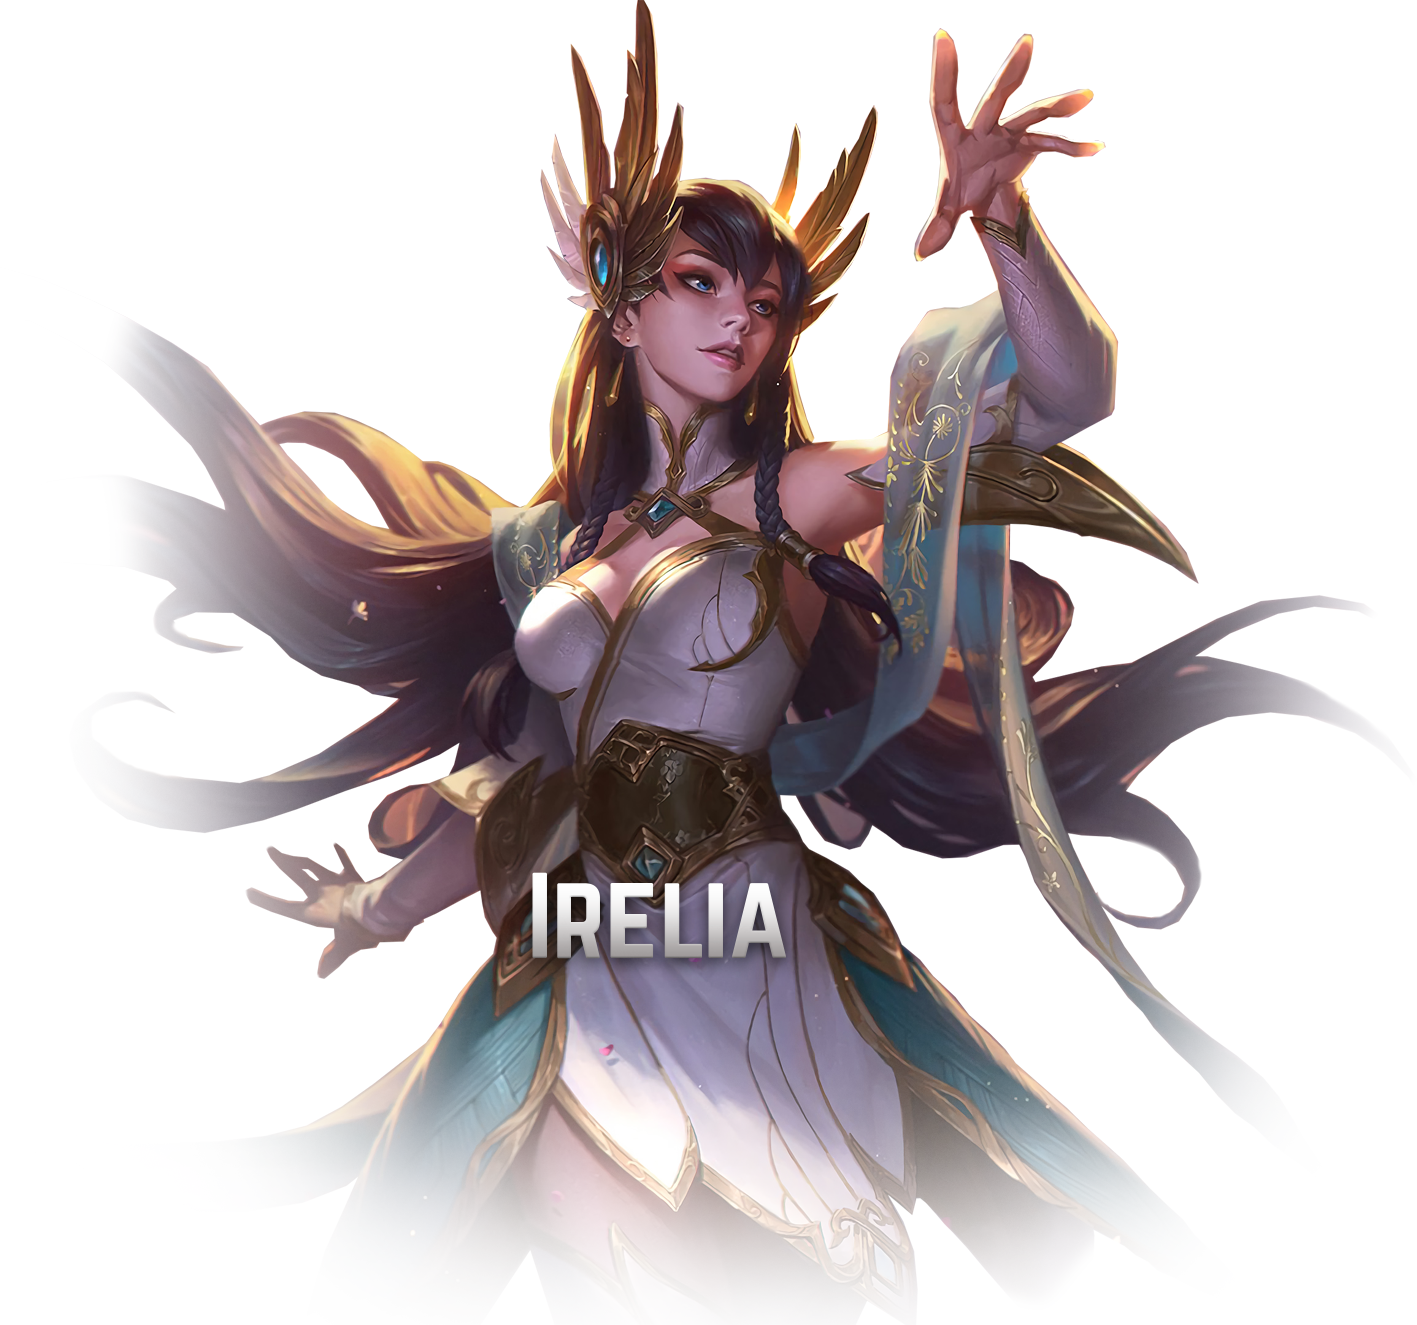
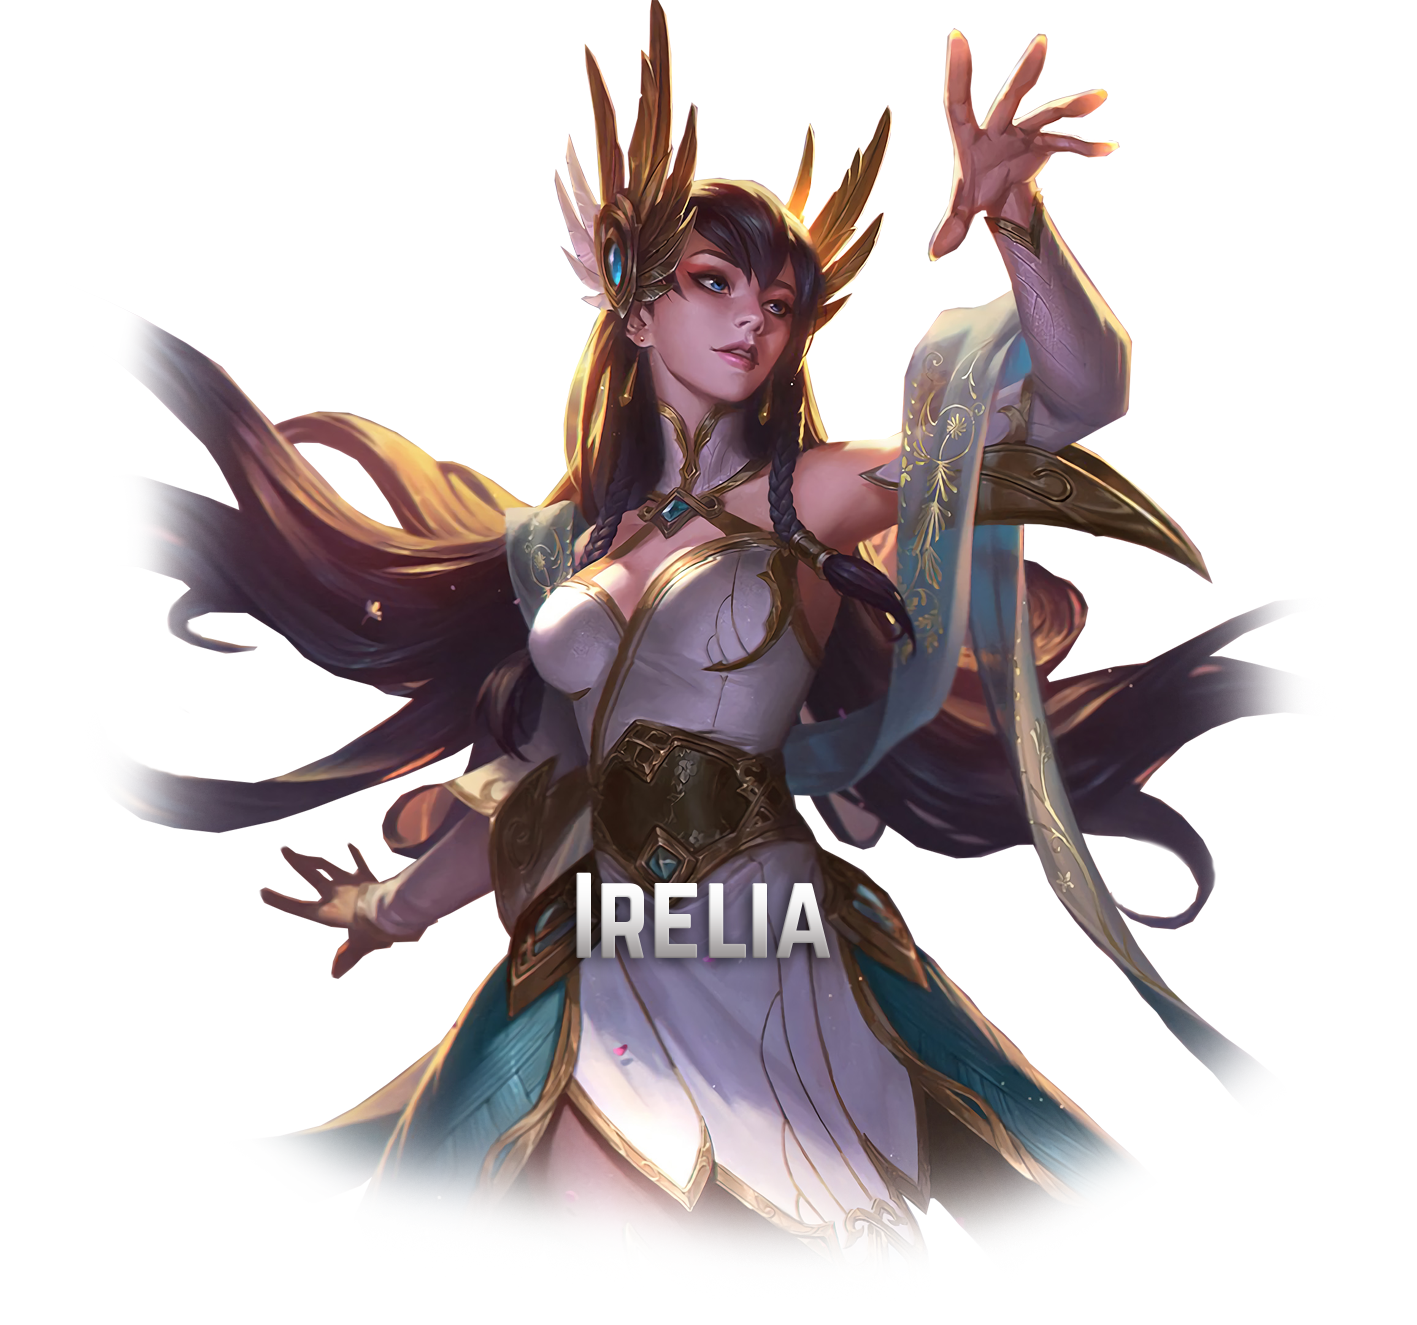
Added pictures with hover effect

Changed region(s): [[0.0932, 0.0, 0.9626, 0.9902]]

diff --git a/src/app/components/welcomepage/welcomepage.component.ts b/src/app/components/welcomepage/welcomepage.component.ts
@@ -8,6 +8,23 @@ import { Router } from '@angular/router';
 })
 export class WelcomepageComponent implements OnInit {
 
+  readonly rivenBlackWhite = 'assets/img/riven-black-white.png';
+  readonly rivenColored = 'assets/img/RIVEN.png';
+
+  readonly yasuoBlackWhite = 'assets/img/yasuo-black-white.png';
+  readonly yasuoColored = 'assets/img/Yasuo.png';
+
+  readonly ireliaBlackWhite = 'assets/img/irelia-black-white.png';
+  readonly ireliaColored = 'assets/img/Irelia.png';
+
+  readonly mavuinLogo = 'assets/img/Mavuin.png';
+  
+  rivenImg = this.rivenBlackWhite;
+  yasuoImg = this.yasuoBlackWhite;
+  ireliaImg = this.ireliaBlackWhite;
+ 
+
+
   constructor(private _router: Router) {
 
   }
@@ -18,6 +35,34 @@ export class WelcomepageComponent implements OnInit {
 
   public navigateToClips(name: string): void {
     this._router.navigate([`/clips/${name}`]);
+  }
+
+  public enterImage(img: number) {
+    switch (img) {
+      case 1: {
+        this.rivenImg = this.rivenColored;
+        break;
+      }
+      case 2: {
+        this.yasuoImg = this.yasuoColored;
+        break;
+      }
+      case 3: {
+        this.ireliaImg = this.ireliaColored;
+      }
+    }
+  }
+
+  public leaveImage(img: number) {
+    if (img === 1) {
+      this.rivenImg = this.rivenBlackWhite;
+    }
+    if (img === 2) {
+      this.yasuoImg = this.yasuoBlackWhite;
+    }
+    if (img === 3) {
+      this.ireliaImg = this.ireliaBlackWhite
+    }
   }
 
 }

diff --git a/src/app/components/welcomepage/welcomepage.component.html b/src/app/components/welcomepage/welcomepage.component.html
@@ -1,13 +1,21 @@
 <div>
-    <div class="row">
-      <div class="col-4">
-        <img (click)="navigateToClips('riven')" class="img-responsive" src="assets/img/RIVEN.png">
-      </div>
-      <div class="col-4">
-        <img (click)="navigateToClips('irelia')" class="img-responsive" src="assets/img/Irelia.png">
-      </div>
-      <div class="col-4">
-        <img (click)="navigateToClips('yasuo')" class="img-responsive" src="assets/img/Yasuo.png">
-      </div>
+  <div class="row pt-5 m-0">
+    <div class="col-4">
+      <img (click)="navigateToClips('riven')" (mouseenter)="enterImage(1)" (mouseleave)="leaveImage(1)" class="zoom"
+        src={{rivenImg}}>
+    </div>
+    <div class="col-4">
+      <img (click)="navigateToClips('irelia')" (mouseenter)="enterImage(3)" (mouseleave)="leaveImage(3)" class="zoom"
+        src={{ireliaImg}}>
+    </div>
+    <div class="col-4">
+      <img (click)="navigateToClips('yasuo')" (mouseenter)="enterImage(2)" (mouseleave)="leaveImage(2)" class="zoom"
+        src="{{yasuoImg}}">
     </div>
   </div>
+  <div class="row m-0">
+    <div class="col-2 offset-md-5">
+      <img src="{{mavuinLogo}}">
+    </div>
+  </div>
+</div>

diff --git a/src/app/components/welcomepage/welcomepage.component.scss b/src/app/components/welcomepage/welcomepage.component.scss
@@ -2,3 +2,11 @@ img {
   width: 100%;
   cursor: pointer;
 }
+.zoom {
+  transition: transform 0.2s; /* Animation */
+  margin: 0 auto;
+}
+
+.zoom:hover {
+  transform: scale(1.1); /* (150% zoom - Note: if the zoom is too large, it will go outside of the viewport) */
+}

diff --git a/src/styles.scss b/src/styles.scss
@@ -2,6 +2,6 @@
 @import '~bootstrap/scss/bootstrap.scss';
 
 html, body{
-    height: 100%;
-    background-color: gray;
+    height: 100vh;
+    background-color: black;
 }
